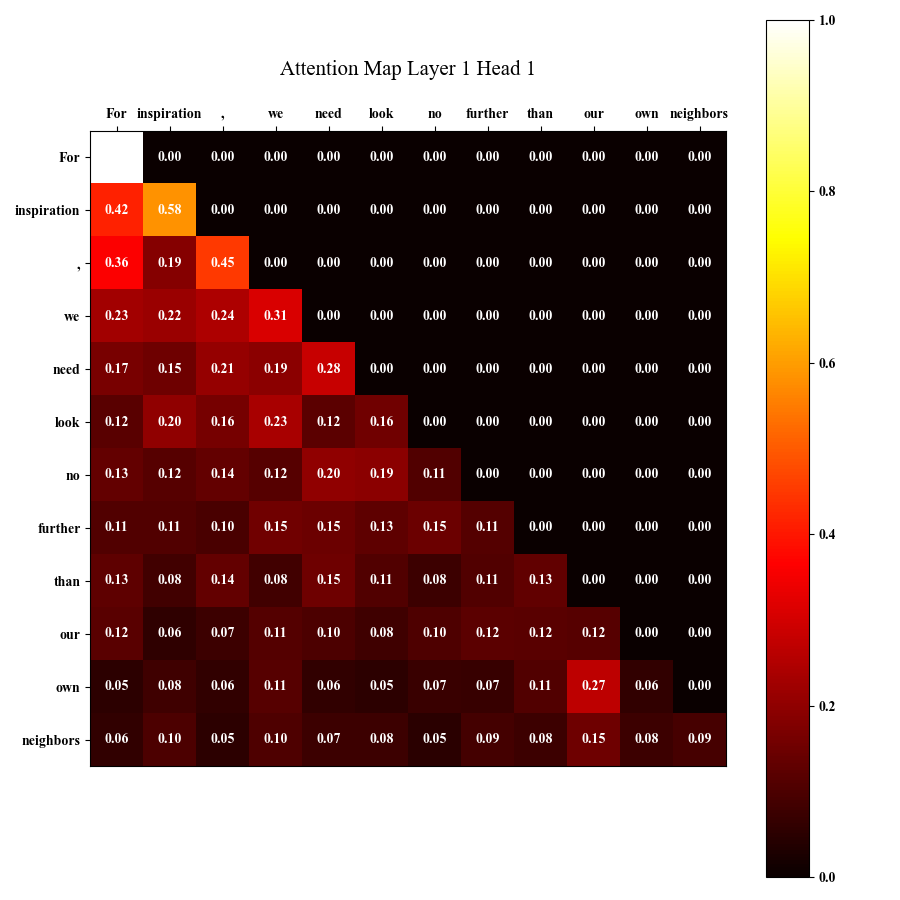
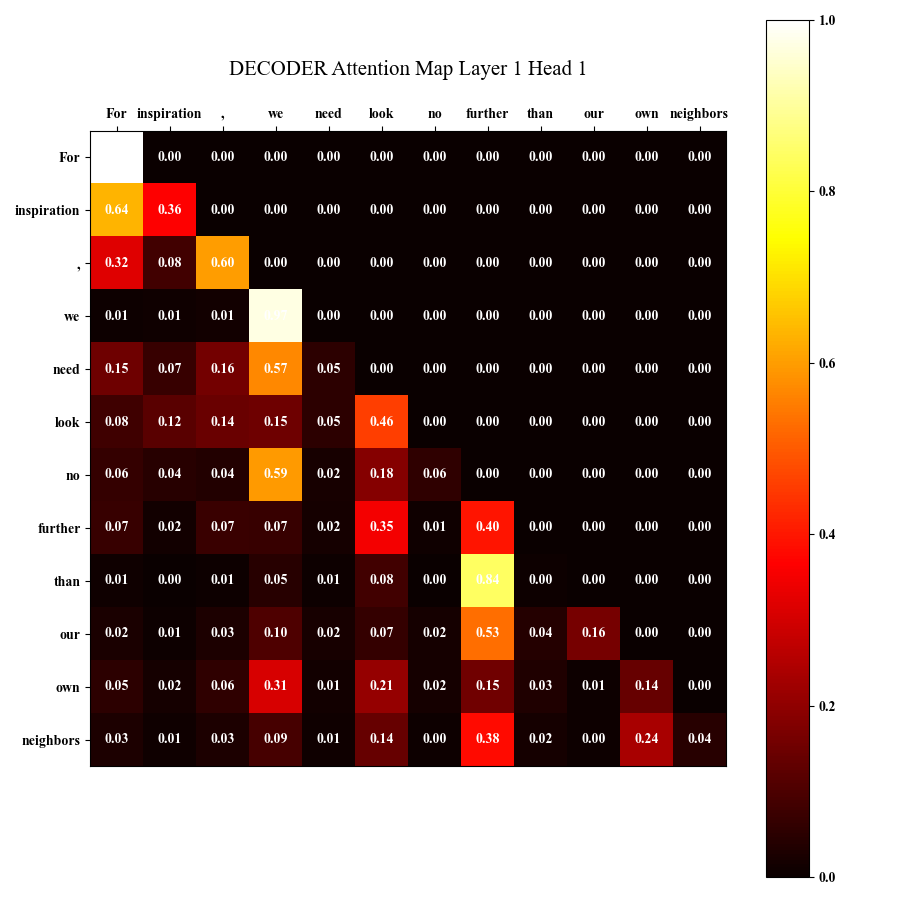
dropout=0.0

Changed region(s): [[0.0933, 0.1867, 0.8089, 0.8711], [0.2489, 0.0622, 0.6533, 0.0933]]

diff --git a/PA2/main.py b/PA2/main.py
@@ -305,7 +305,7 @@ def main():
             heads=n_head,
             device=device,
             feed_forward_dimension=100,
-            dropout=0.1,
+            dropout=0.0,
             max_length=block_size
         )
         print("Training Decoder Generation Model ......")
@@ -370,7 +370,7 @@ def main():
         plt.xticks(range(eval_interval, max_iters + eval_interval, eval_interval))
         plt.legend()
         for i, hbush in enumerate(h_bush_perplexities):
-            plt.text((i + 1) * eval_interval, hbush - 25, f"{hbush: .2f}", ha="center", va="top")
+            plt.text((i + 1) * eval_interval, hbush - 5, f"{hbush: .2f}", ha="center", va="top")
 
         plt.subplot(3, 1, 2)
         plt.plot(range(eval_interval, max_iters + eval_interval, eval_interval), obama_perplexities, marker="o", color="black", label="Obama Perplexity")
@@ -379,7 +379,7 @@ def main():
         plt.xticks(range(eval_interval, max_iters + eval_interval, eval_interval))
         plt.legend()
         for i, obama in enumerate(obama_perplexities):
-            plt.text((i + 1) * eval_interval, obama - 25, f"{obama: .2f}", ha="center", va="top")
+            plt.text((i + 1) * eval_interval, obama - 5, f"{obama: .2f}", ha="center", va="top")
 
         plt.subplot(3, 1, 3)
         plt.plot(range(eval_interval, max_iters + eval_interval, eval_interval), w_bush_perplexities, marker="o", color="red", label="W Bush Perplexity")
@@ -388,7 +388,7 @@ def main():
         plt.xticks(range(eval_interval, max_iters + eval_interval, eval_interval))
         plt.legend()
         for i, wbush in enumerate(w_bush_perplexities):
-            plt.text((i + 1) * eval_interval, wbush - 25, f"{wbush: .2f}", ha="center", va="top")
+            plt.text((i + 1) * eval_interval, wbush - 5, f"{wbush: .2f}", ha="center", va="top")
 
         plt.tight_layout()
         plt.savefig(f"./acc_plots/{args.run}_all_eval.png")
